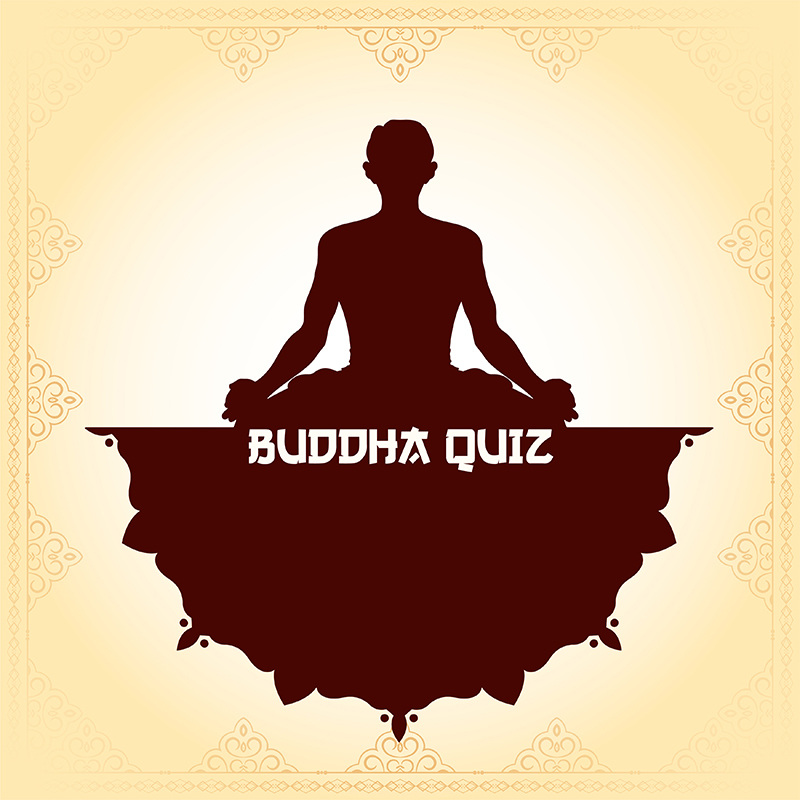
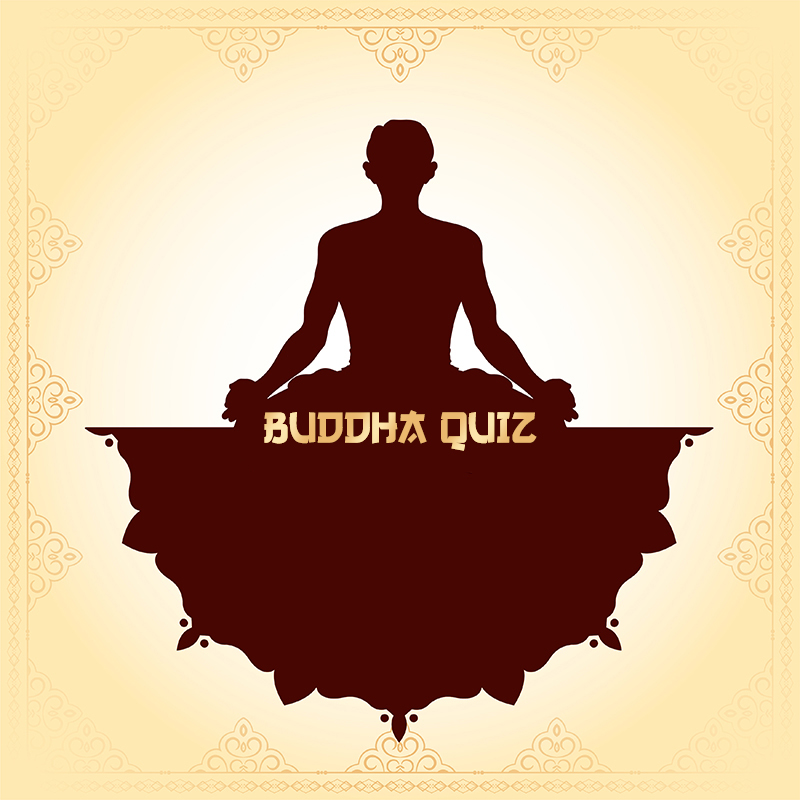
Buddha Quiz

Changed region(s): [[0.3125, 0.5, 0.6875, 0.5938]]

diff --git a/style.css b/style.css
@@ -5,7 +5,7 @@ body {
   flex-direction: column;
   align-items: center;
   justify-content: center;
-  background-color: rgb(44, 7, 2);
+  background-color: #330300;
 }
 
 .quiz-container {
@@ -14,7 +14,7 @@ body {
   border: 3px solid rgb(255, 255, 255);
   border-radius: 10px;
   box-shadow: 0 0 15px rgb(255, 255, 255);
-  background-image: url('./img/buddha-quiz-800x800.jpg');
+  background-image: url('./img/buddha-quiz-800x800-by.jpg');
   background-size: cover;
   background-position: center;
   display: flex;
@@ -26,7 +26,7 @@ body {
 .question {
   position: absolute;
   top: 85px;
-  color: rgb(59, 12, 6);
+  color: #330300;
   font-weight: 600;
   font-size: x-large;
   font-family: 'Phudu';
@@ -34,14 +34,32 @@ body {
 
 .options {
   position: absolute;
-  top: 510px;
+  top: 490px;
   color: rgb(255, 247, 236);
   font-family: 'Gluten';
   font-weight: 600;
+  font-size: x-large;
   height: 100px;
   display: flex;
   flex-direction: column;
   justify-content: space-between;
+}
+
+.result {
+  position: absolute;
+  top: 480px;
+  color: rgb(255, 247, 236);
+  font-family: 'Architects Daughter';
+  font-weight: bold;
+}
+
+.more {
+  position: absolute;
+  top: 520px;
+  width: 430px;
+  color: rgb(255, 247, 236);
+  font-family: 'Architects Daughter';
+  text-align: center;
 }
 
 .next-btn {

diff --git a/script.js b/script.js
@@ -38,13 +38,14 @@ $(document).ready(function() {
 
     // Ajoutez un gestionnaire d'événements pour les options de réponse
     $('input[name="answer"]').change(function() {
+      $('.options').html('');
       const selectedOption = $(this).val();
       if (selectedOption === question.answer) {
-        $('.result-info').text("BRAVO !");
+        $('.result').text("BRAVO !");
       } else {
-        $('.result-info').text("MAUVAISE RÉPONSE ! c'était " + question.answer + " !");
+        $('.result').text("MAUVAISE RÉPONSE ! c'était " + question.answer + " !");
       }
-      $('.more-info').text(question.more);
+      $('.more').text(question.more);
     });
   }
 
@@ -53,13 +54,13 @@ $(document).ready(function() {
 
     currentQuestionIndex++;
 
-    $('.result-info').text('');
-    $('.more-info').text('');
+    $('.result').text('');
+    $('.more').text('');
 
     if (currentQuestionIndex < questions.length) {
       displayQuestion(currentQuestionIndex);
     } else {
-      $('.quiz-container').html('<p>Quiz terminé !</p>');
+      $('.result').html('<p>QUIZ TERMINÉ !</p>');
     }
   });
 

diff --git a/index.html b/index.html
@@ -17,8 +17,8 @@
   <div class="quiz-container">
     <div class="question"></div>
     <div class="options"></div>
-    <div class="result-info"></div>
-    <div class="more-info"></div>
+    <div class="result"></div>
+    <div class="more"></div>
     <button class="next-btn">Suivant</button>
   </div>
 
